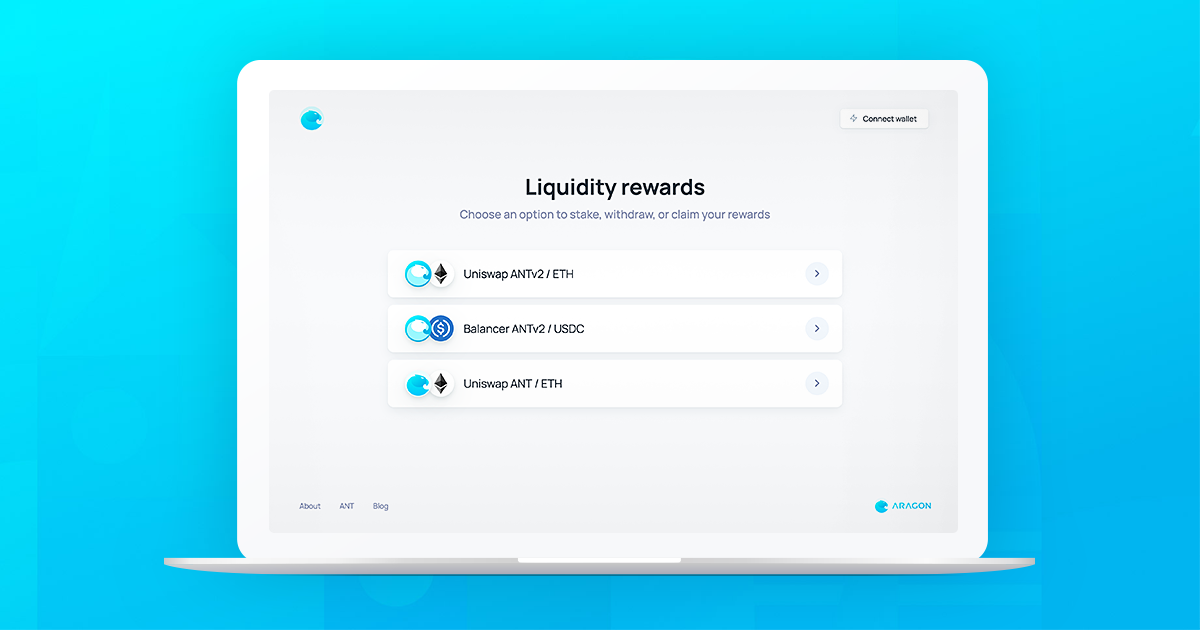
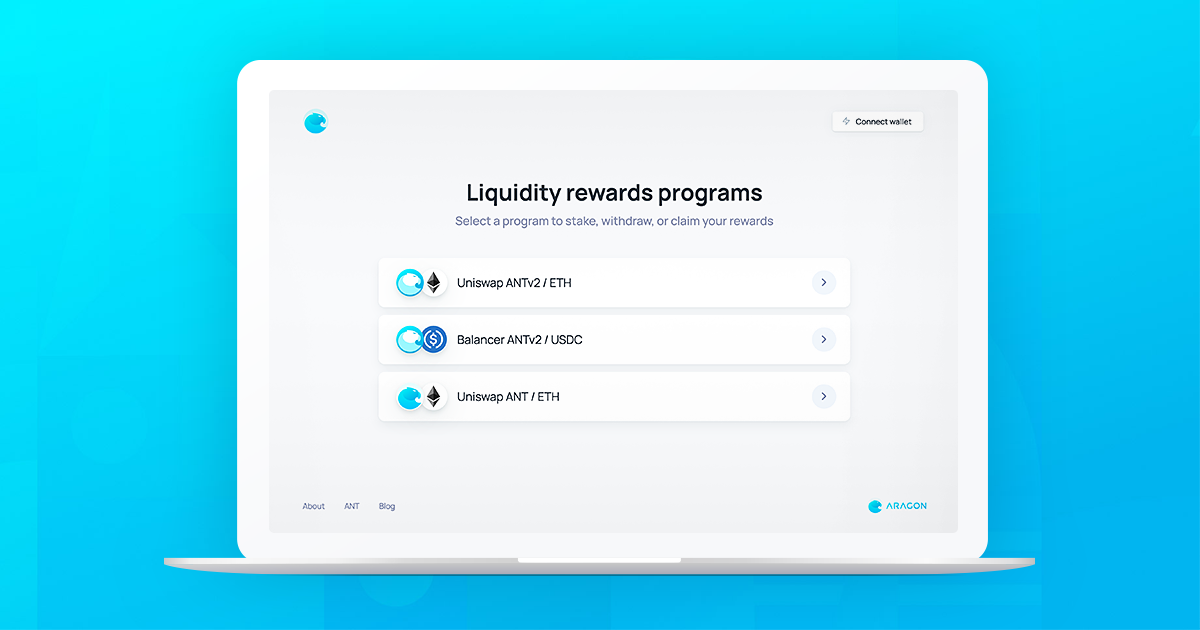
Update content

diff --git a/public/index.html b/public/index.html
@@ -10,7 +10,10 @@
 
     <meta name="viewport" content="width=device-width, initial-scale=1" />
     <meta name="theme-color" content="#000000" />
-    <meta name="description" content="Aragon Liquidity Program" />
+    <meta
+      name="description"
+      content="Select a program to stake, withdraw, or claim your rewards"
+    />
 
     <!-- OpenGraph (Twitter, Facebook, Linkedin) -->
     <!-- TODO: Update this information -->
@@ -18,10 +21,13 @@
     <meta name="twitter:site" content="@AragonProject" />
     <meta name="twitter:creator" content="@AragonProject" />
 
-    <meta property="og:title" content="Aragon Liquidity Program" />
-    <meta property="og:description" content="Aragon Liquidity Program" />
+    <meta property="og:title" content="Liquidity rewards programs" />
+    <meta
+      property="og:description"
+      content="Select a program to stake, withdraw, or claim your rewards"
+    />
     <meta property="og:url" content="https://liquidity.aragon.org/" />
-    <meta property="og:site_name" content="Aragon Liquidity Program" />
+    <meta property="og:site_name" content="Liquidity rewards programs" />
     <meta property="og:image" content="%PUBLIC_URL%/og-preview-image.png" />
     <meta
       property="og:image:secure_url"
@@ -93,7 +99,7 @@
       work correctly both with client-side routing and a non-root public URL.
       Learn how to configure a non-root public URL by running `npm run build`.
     -->
-    <title>Aragon Liquidity Program</title>
+    <title>Liquidity rewards programs</title>
   </head>
 
   <body>

diff --git a/src/components/Pool/PoolControls/PoolControls.tsx b/src/components/Pool/PoolControls/PoolControls.tsx
@@ -92,16 +92,22 @@ function PoolControls(): JSX.Element {
               font-weight: ${fontWeight.medium};
             `}
           >
-            This program has finished
+            Program completed!{' '}
+            <span role="img" aria-label="party-popper">
+              🎉
+            </span>
           </h1>
           <p
             css={`
               margin-bottom: 26px;
+              max-width: 550px;
+              margin-left: auto;
+              margin-right: auto;
               color: ${theme.surfaceContentSecondary};
             `}
           >
-            The ANT Liquidity Rewards program has ended. Withdraw your funds and
-            claim the rewards!
+            This program ended on August 21st, 2020. If you participated, please
+            connect your wallet to withdraw your funds and claim your rewards!
           </p>
         </div>
       )}

diff --git a/src/components/Home/Home.tsx b/src/components/Home/Home.tsx
@@ -27,8 +27,8 @@ function Home(): JSX.Element {
             `}
           >
             <PageHeading
-              title="Liquidity rewards"
-              description="Choose an option to stake, withdraw, or claim your rewards"
+              title="Liquidity rewards programs"
+              description="Select a program to stake, withdraw, or claim your rewards"
               css={`
                 margin-bottom: 60px;
               `}
